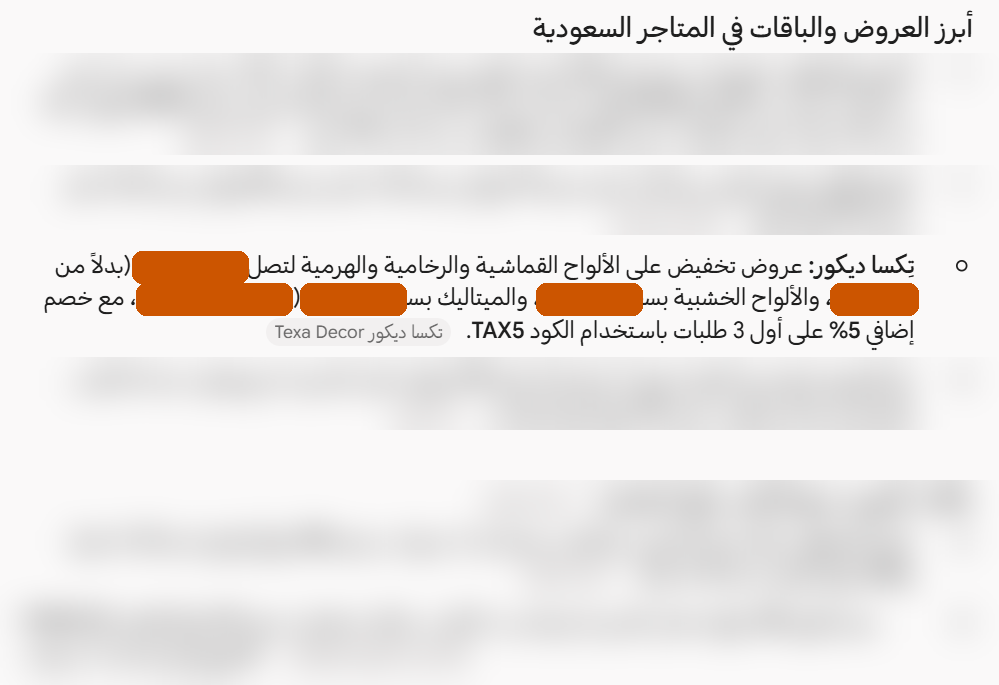
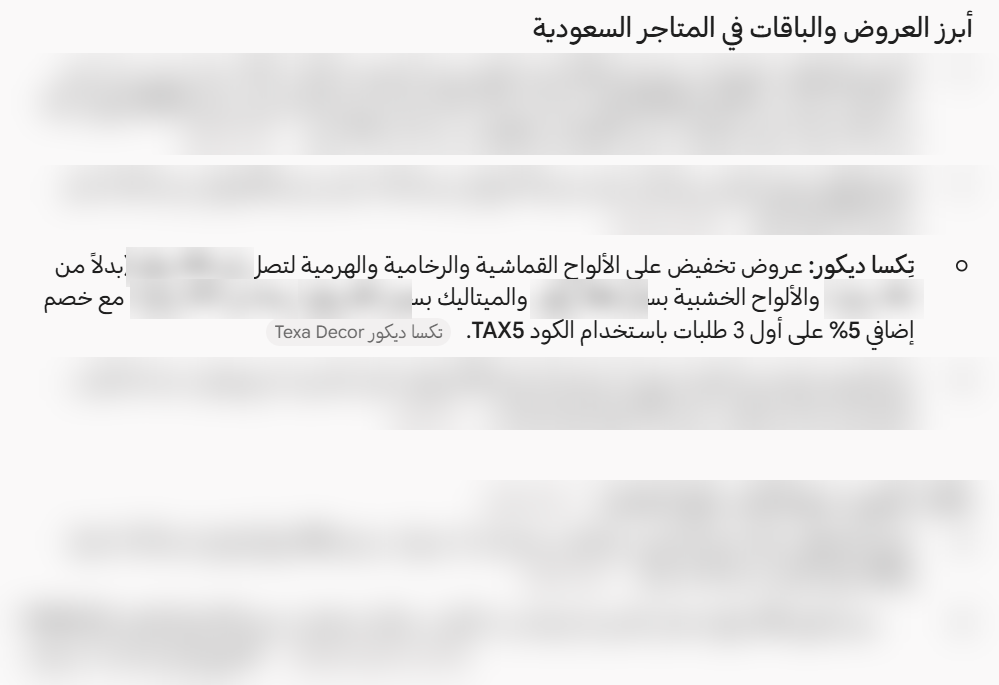
AI promo screenshots: blur prices instead of orange covers
Claude-Session: https://claude.ai/code/session_01CesSFVhG8Wz7NXzdxTJJCQ

Changed region(s): [[0.1241, 0.3679, 0.4344, 0.4905], [0.5275, 0.3985, 0.6517, 0.4599], [0.8068, 0.3985, 0.9309, 0.4599]]

diff --git a/texa-ai-video/redact.py b/texa-ai-video/redact.py
@@ -4,7 +4,7 @@ OR=(204,85,0)
 def blur(im,box,r=14):
     reg=im.crop(box).filter(ImageFilter.GaussianBlur(r)); im.paste(reg,box)
 def pill(im,box):
-    d=ImageDraw.Draw(im); d.rounded_rectangle(box,radius=10,fill=OR)
+    x0,y0,x1,y1=box; blur(im,(x0-6,y0-4,x1+6,y1+4),11)
 # ChatGPT
 a=Image.open(I+'34.webp').convert('RGB')
 pill(a,(728,312,862,350))
